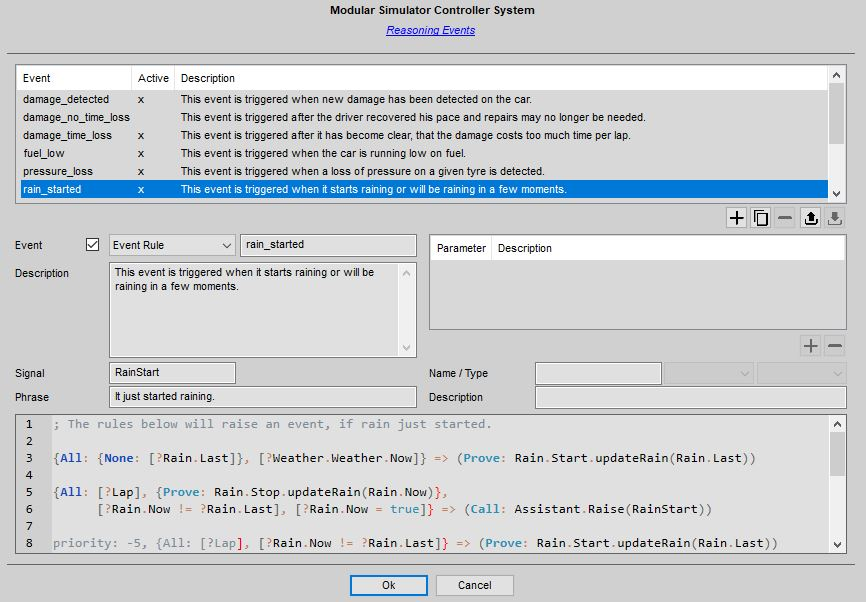
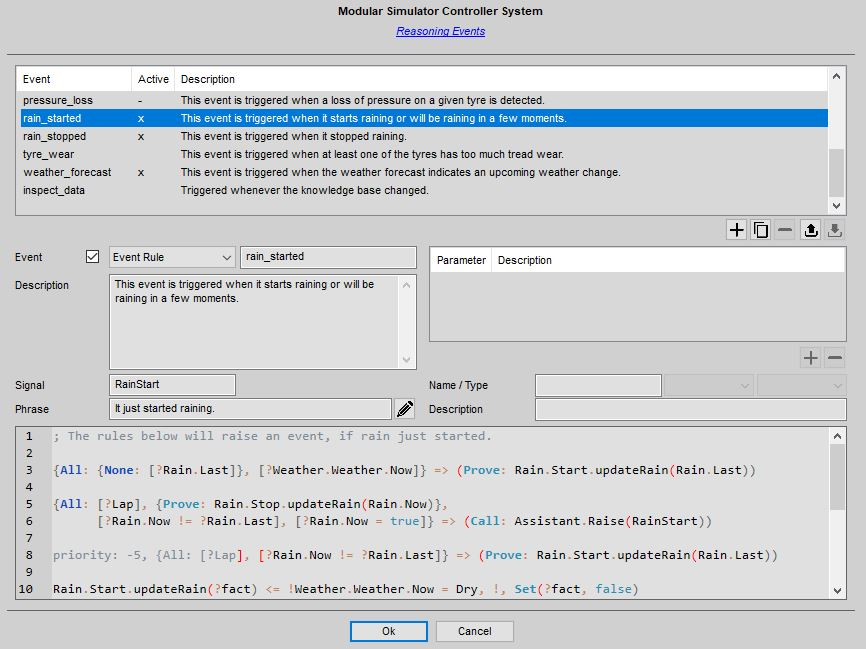
Phrase editor for Booster event phrases

diff --git a/Docs/Customizing Assistants.md b/Docs/Customizing Assistants.md
@@ -482,7 +482,7 @@ Since the control flow between the rule engine and the LLM especially for the *R
 ![](https://github.com/SeriousOldMan/Simulator-Controller/blob/main/Docs/Images/Agent%20Flow.JPG)
 
 1. It all starts with an event, typically signalled by the rule engine. An event will be in most cases a special condition in the state of the car or the session (fuel is running low, weather is changing, and so on). There are many predefined events available, which you can find below and you can define your own events, of course.
-2. The event will generate a command or information phrase for the LLM and this will be passed to the GPT service together with a complete representation of the current knowledge, as show above, and a list of available actions to call.
+2. The event will generate a command or information phrase for the LLM and this will be passed to the GPT service together with a complete representation of the current knowledge, as shown above, and a list of available actions to call.
 3. The LLM can decide to *call* one or more of these actions, which then will be executed in parallel.
 4. An action can do almost anything. Typically it triggers a special behavior of the Assistant, for example, create a pitstop plan, but it can also call any of the available [action functions](https://github.com/SeriousOldMan/Simulator-Controller/wiki/Action-Functions) in Simulator Controller, or it can generate voice output, and so on. Using *Assistant.Raise* (see below for [more information](https://github.com/SeriousOldMan/Simulator-Controller/wiki/Customizing-Assistants#managing-events)), it can also raise additional events, even for other Assistants. These enables the LLM to create a complex chain of thought or collaborate with other Assistants.
 
@@ -692,6 +692,10 @@ As you can see, this editor looks very similar to the actions editor discussed a
 2. You have to supply a phrase which decribes the event to the LLM. Example: "It just started raining." If your event has defined parameters, you can reference the values of the arguments to the event in the phrase by enclosing them in "%". Example: "We started lap %lapNumber%." Since the "%" has therefore a special meaning, you must escape it when it is used alone. Preceed the percentage character with a backquote (`) or a backslash (\\) to do that.
 
    ![](https://github.com/SeriousOldMan/Simulator-Controller/blob/main/Docs/Images/Configuration%20Tab%207%20Reasoning%20Event%20Arguments.JPG)
+   
+   > ###### Good to know
+   >
+   > Phrases are not restricted to short single sentences. Actually they can get quite long and descriptive. Click on the small button to the right of the "Phrase" field to open an editor which allows you to edit longer texts.
 
 3. The following event typs are supported:
 
